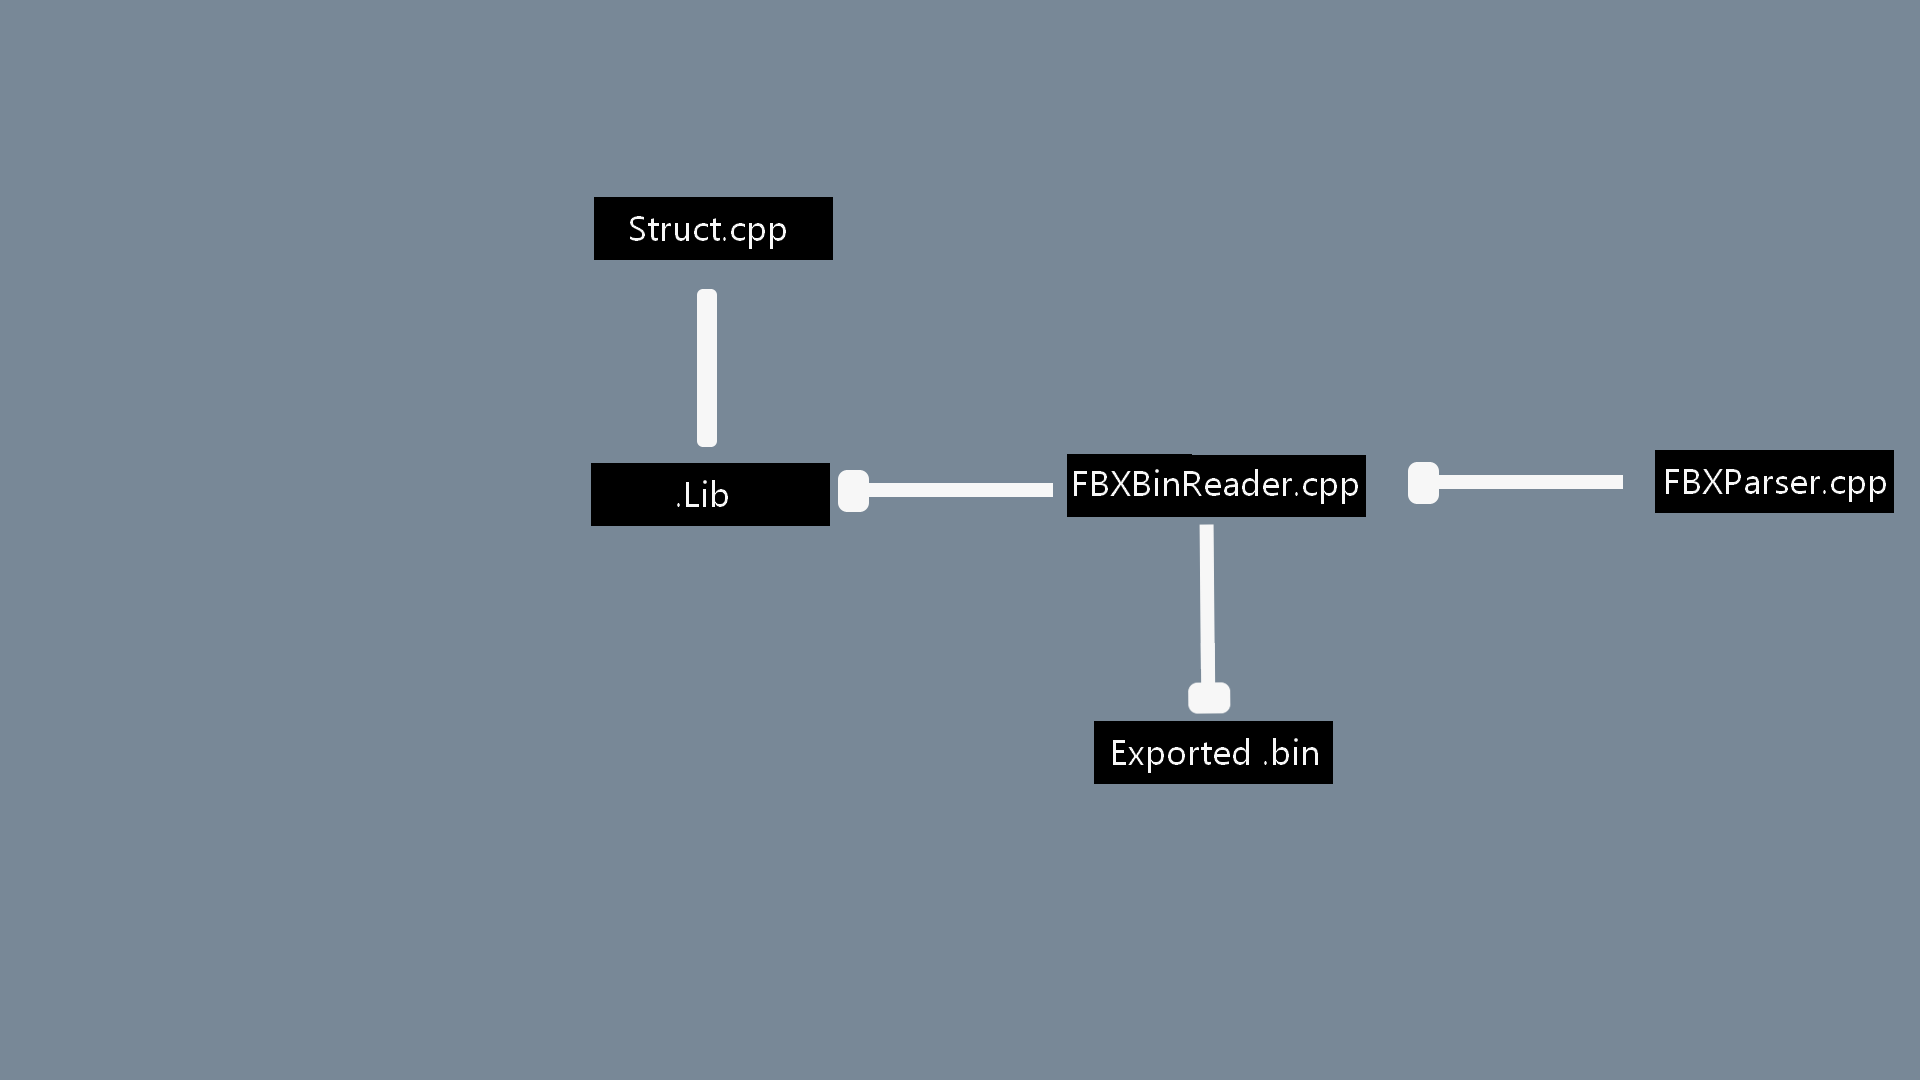
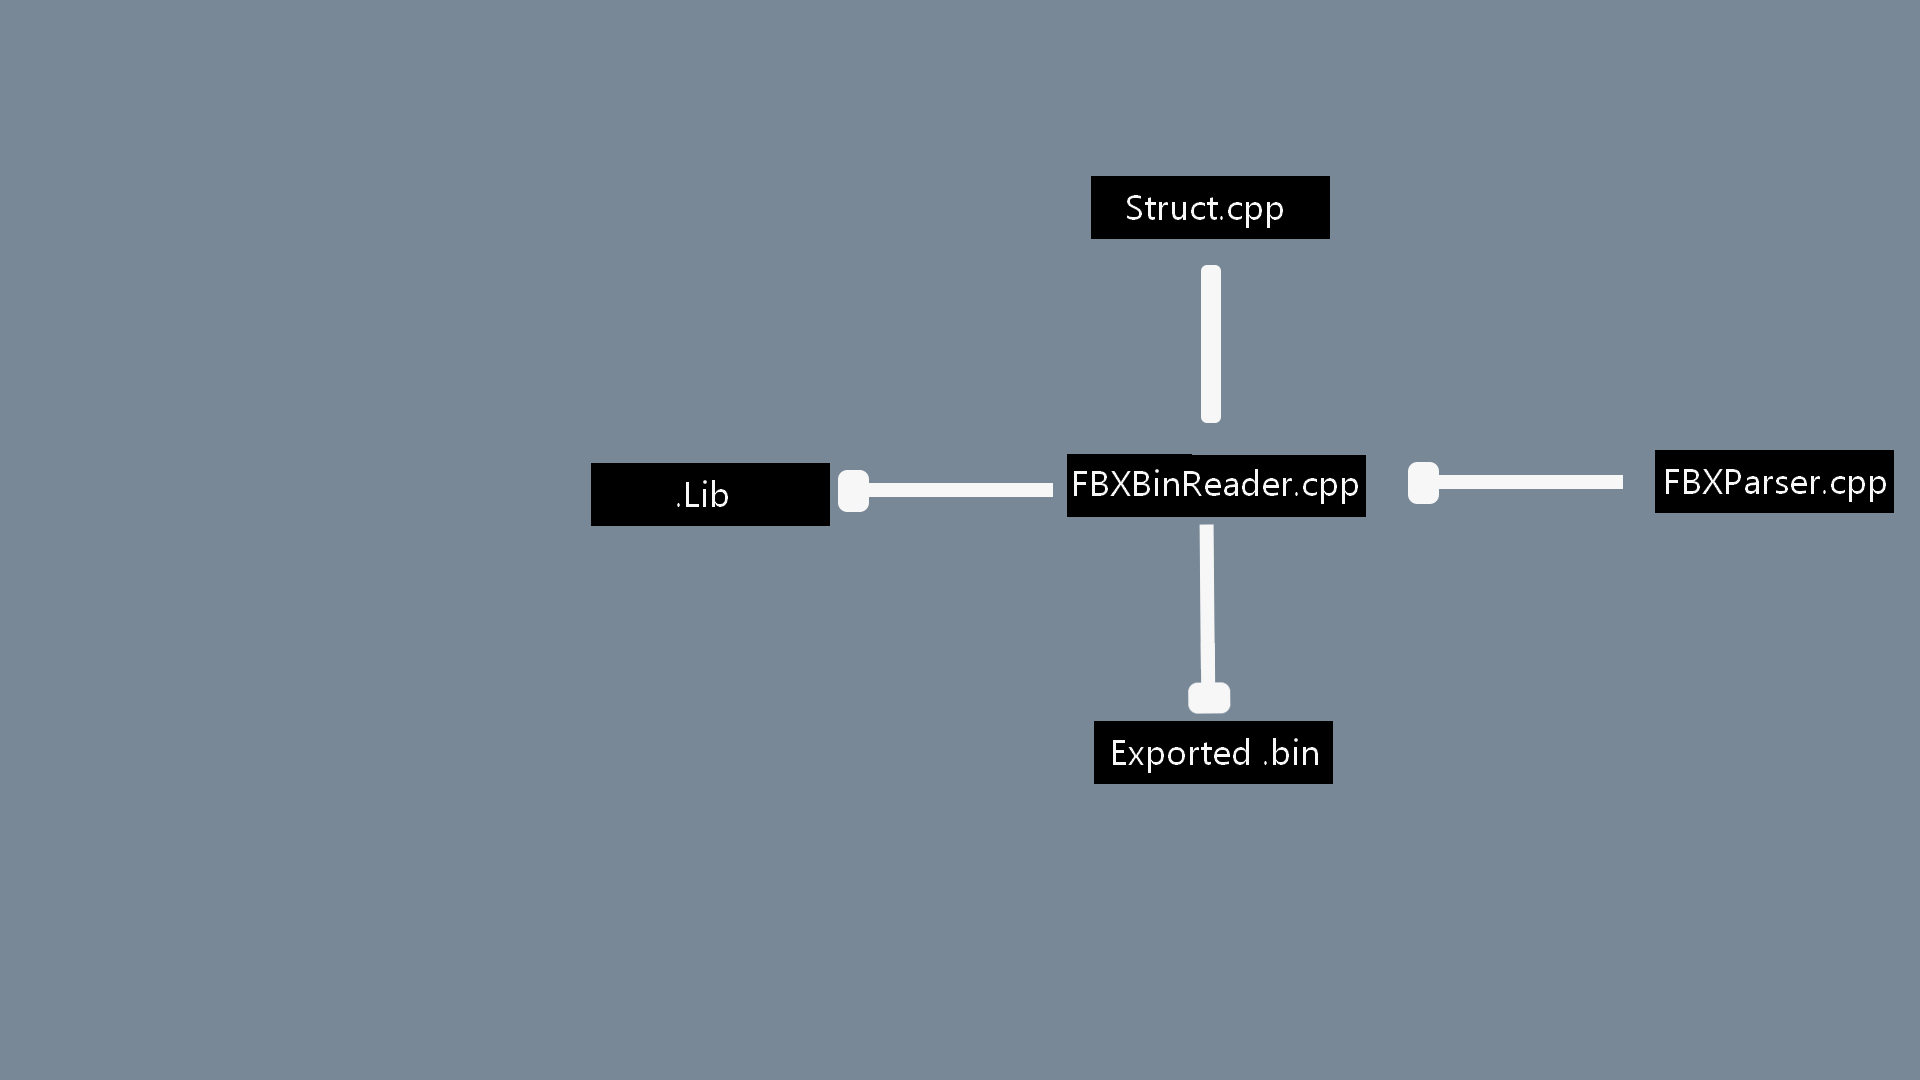
FBX Update

Changed region(s): [[0.5625, 0.1528, 0.7188, 0.3972], [0.3125, 0.1833, 0.4375, 0.2444], [0.3438, 0.275, 0.375, 0.4278]]

diff --git a/DungeonCrawler/FbxImporter/FBXParser.cpp b/DungeonCrawler/FbxImporter/FBXParser.cpp
@@ -1,11 +1,17 @@
 #include "FBXParser.h"
 
-//Takes in the info and writes to engine
-
+//Takes in the mesh info and makes it renderable
 FBXParser::FBXParser()
 {
 }
 
 FBXParser::~FBXParser()
 {
+}
+
+//Takes the data from the MainHeader struct that is filled and parses it into a mesh renderable on screen
+void FBXParser::createMesh(Mesh& mesh)
+{
+	FBXBinReader meshreader;
+	meshreader.binaryMeshReading();
 }

diff --git a/DungeonCrawler/FbxImporter/FBXBinReader.cpp b/DungeonCrawler/FbxImporter/FBXBinReader.cpp
@@ -1,5 +1,4 @@
 //With the .lib file included the fbxbinreader should interpret the binary data and set the data to the structs and return the data
-#include "FBXImporter.h"
 #include "FBXBinReader.h"
 
 int main()
@@ -33,4 +32,9 @@ FBXBinReader::FBXBinReader()
 
 FBXBinReader::~FBXBinReader()
 {
+}
+
+MainHeader FBXBinReader::binaryMeshReading()
+{
+	return MainHeader();
 }

diff --git a/CustomFBXLibrary/src/FBXImporter.cpp b/CustomFBXLibrary/src/FBXImporter.cpp
@@ -1,6 +1,7 @@
 #include "FBXImporter.h"
 #include <iostream>
 
+//Lib file that interprets binary values to base 10 values and returns them
 namespace FBXImporter {
 	void displayMeshName()
 	{
@@ -13,5 +14,3 @@ namespace FBXImporter {
 
 	}
 }
-
-//Lib file that interprets binary values to base 10 values and returns them

diff --git a/DungeonCrawler/Graphics/GLinit.cpp b/DungeonCrawler/Graphics/GLinit.cpp
@@ -25,6 +25,8 @@ GLinit::~GLinit()
 
 Mesh* GLinit::createMesh(std::string name, ParserData* data)
 {
+	//Make a check if FBX is binary
+	//Use the FBXParser class that takes in the binary custom files and generates the meshes
 	if (MeshMap::MeshExistWithName(name))
 		return MeshMap::getMesh(name);
 

diff --git a/DungeonCrawler/FbxImporter/FBXBinReader.h b/DungeonCrawler/FbxImporter/FBXBinReader.h
@@ -2,12 +2,18 @@
 #include <iostream>
 #include <fstream>
 #include <string>
+#include "FBXImporter.h"
+#include "HeaderStruct.h"
+
 
 class FBXBinReader
 {
 public:
 	FBXBinReader();
 	~FBXBinReader();
+
+	MainHeader binaryMeshReading();
+
 
 private:
 

diff --git a/DungeonCrawler/FbxImporter/FBXParser.h b/DungeonCrawler/FbxImporter/FBXParser.h
@@ -1,10 +1,16 @@
 #pragma once
+#include "HeaderStruct.h"
+#include "FBXBinReader.h"
+#include "../Graphics/MeshMap.h"
 
 class FBXParser{
 
 public:
 	FBXParser();
 	~FBXParser();
+
+
+	void createMesh(Mesh& mesh);
 
 private:
 

diff --git a/CustomFBXLibrary/src/FBXImporter.h b/CustomFBXLibrary/src/FBXImporter.h
@@ -1,9 +1,8 @@
 #pragma once
-#include "HeaderStruct.h"
 
 namespace FBXImporter {
 	void displayMeshName();
 	void displayVertices();
-
-
+	//Insert vector
+	unsigned int getBinaryData();
 }
